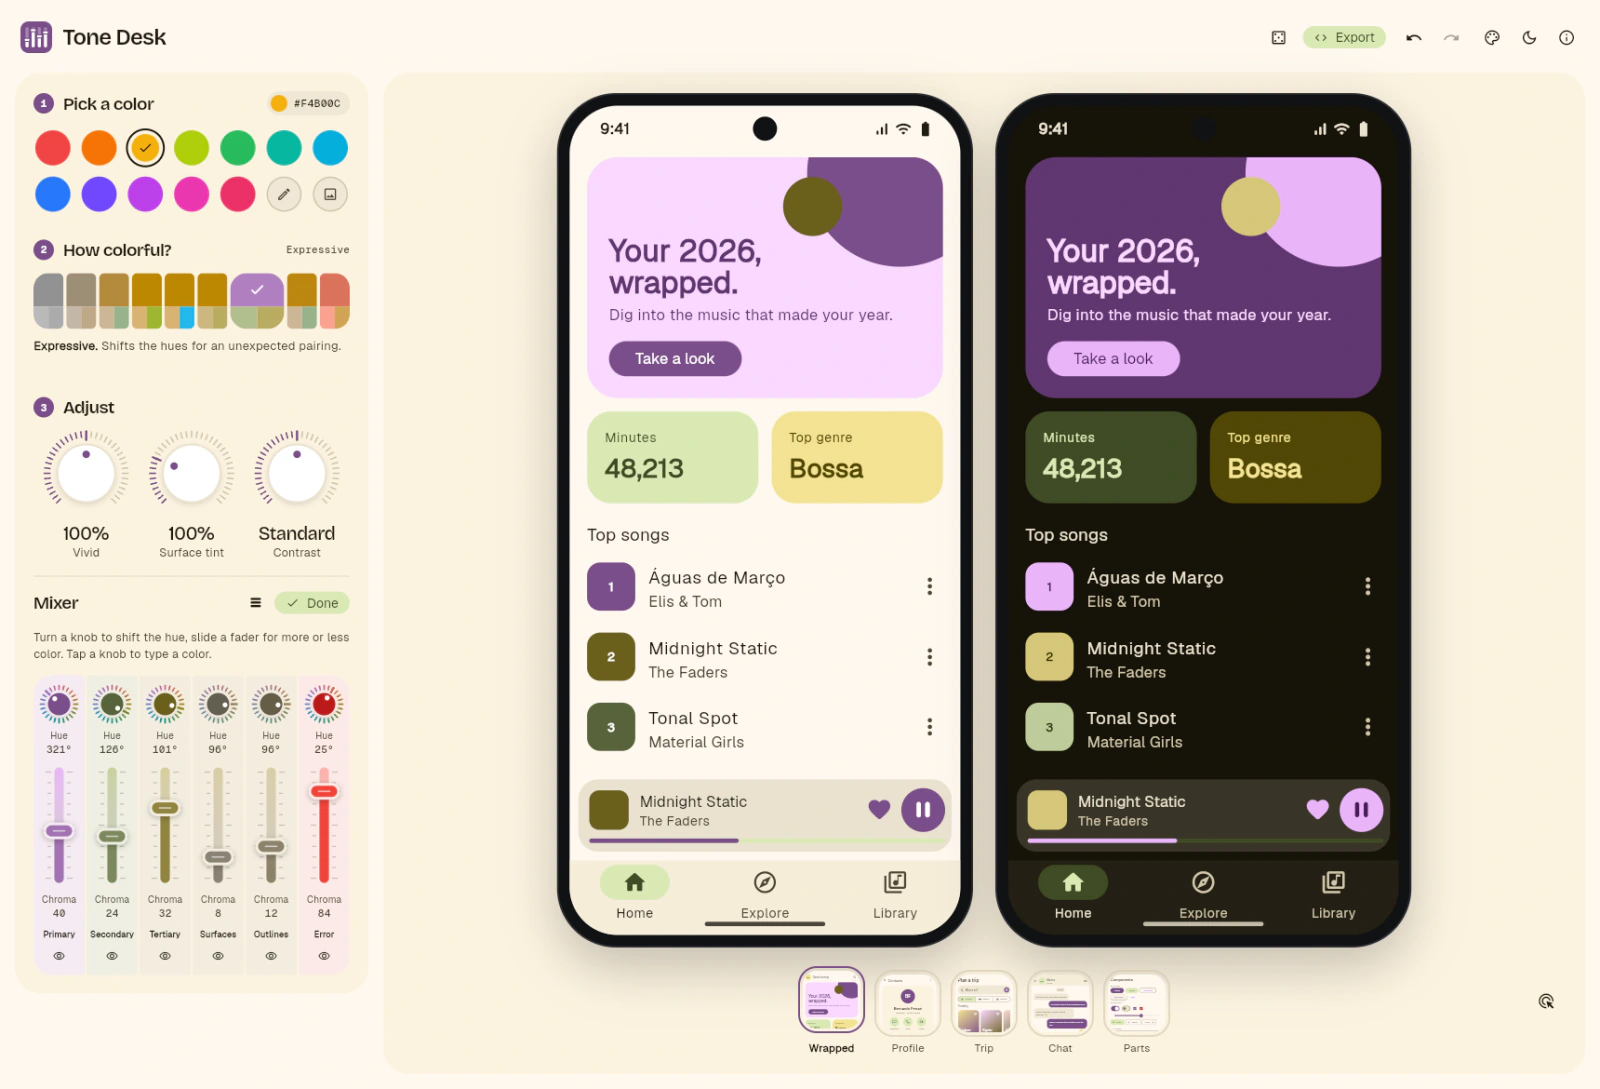
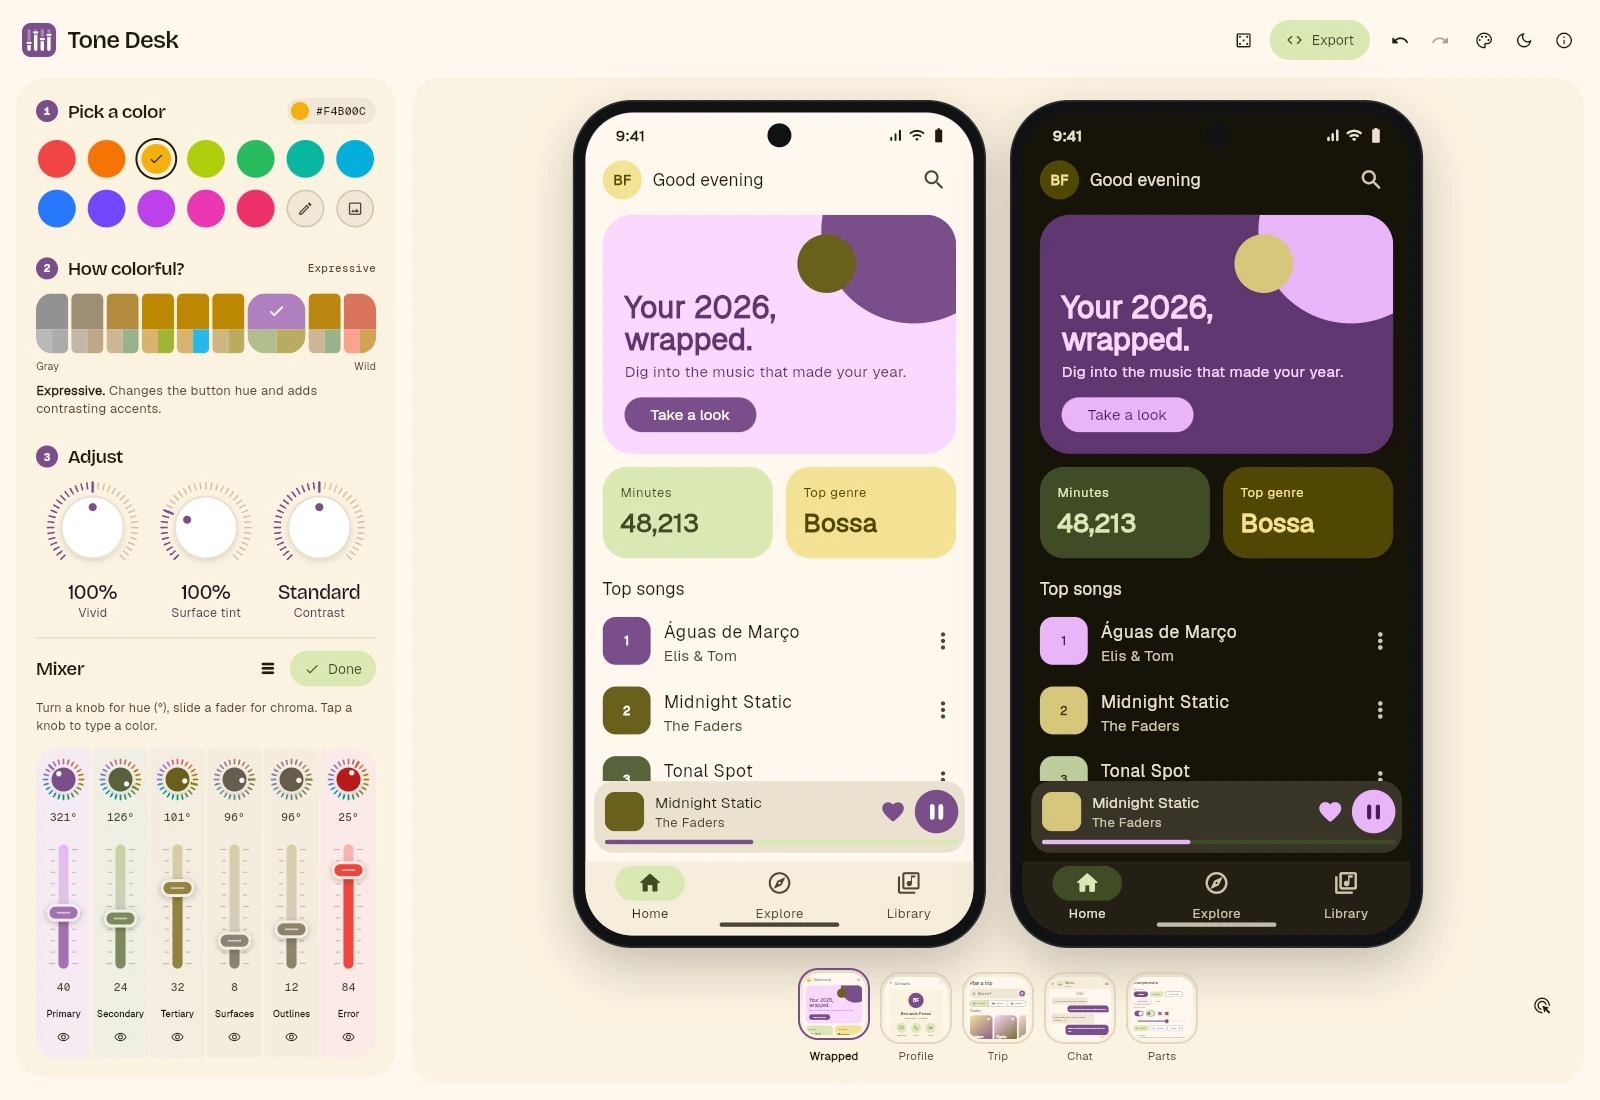
Refresh the Tone Desk README screenshots

diff --git a/README.md b/README.md
@@ -17,7 +17,7 @@
 ## Three steps, no manual
 
 1. **Pick a color.** Tap one of twelve presets, type a hex, or pull a color from a photo.
-2. **How colorful?** One strip runs from calm to colorful through Material's nine dynamic color styles. Each comes with a plain name, like *Balanced* (Android's default) or *Wild*, instead of a spec term.
+2. **How colorful?** Drag across nine Material color styles, from *Gray* to *Wild*. The light and dark previews update as you drag.
 3. **Adjust.** Turn **Vivid** for more or less color, **Surface tint** for how much of it reaches the backgrounds, and **Contrast** from soft to high.
 
 The preview is real Material 3 widgets on five screens: a music recap, a profile, a trip planner, a chat and a sheet of components. Turn on the inspector (**I**) and hover anything to see which color role paints it.
@@ -25,7 +25,7 @@ The preview is real Material 3 widgets on five screens: a music recap, a profile
 ## The mixer, for brand colors
 
 <p align="center">
-  <img src="docs/screenshots/mixer.webp" width="100%" alt="Tone Desk in light mode with six connected mixer channels and two phone previews using the Expressive style with a yellow seed">
+  <img src="docs/screenshots/mixer.webp" width="100%" alt="Tone Desk in light mode with a yellow seed and the Expressive style. Each of the six mixer channels shows hue below the knob and chroma below the fader.">
 </p>
 
 Open **More options** when a brand needs its own colors. Each of the six tonal palettes (primary, secondary, tertiary, surfaces, outlines and error) gets its own channel strip, like a mixing desk:
